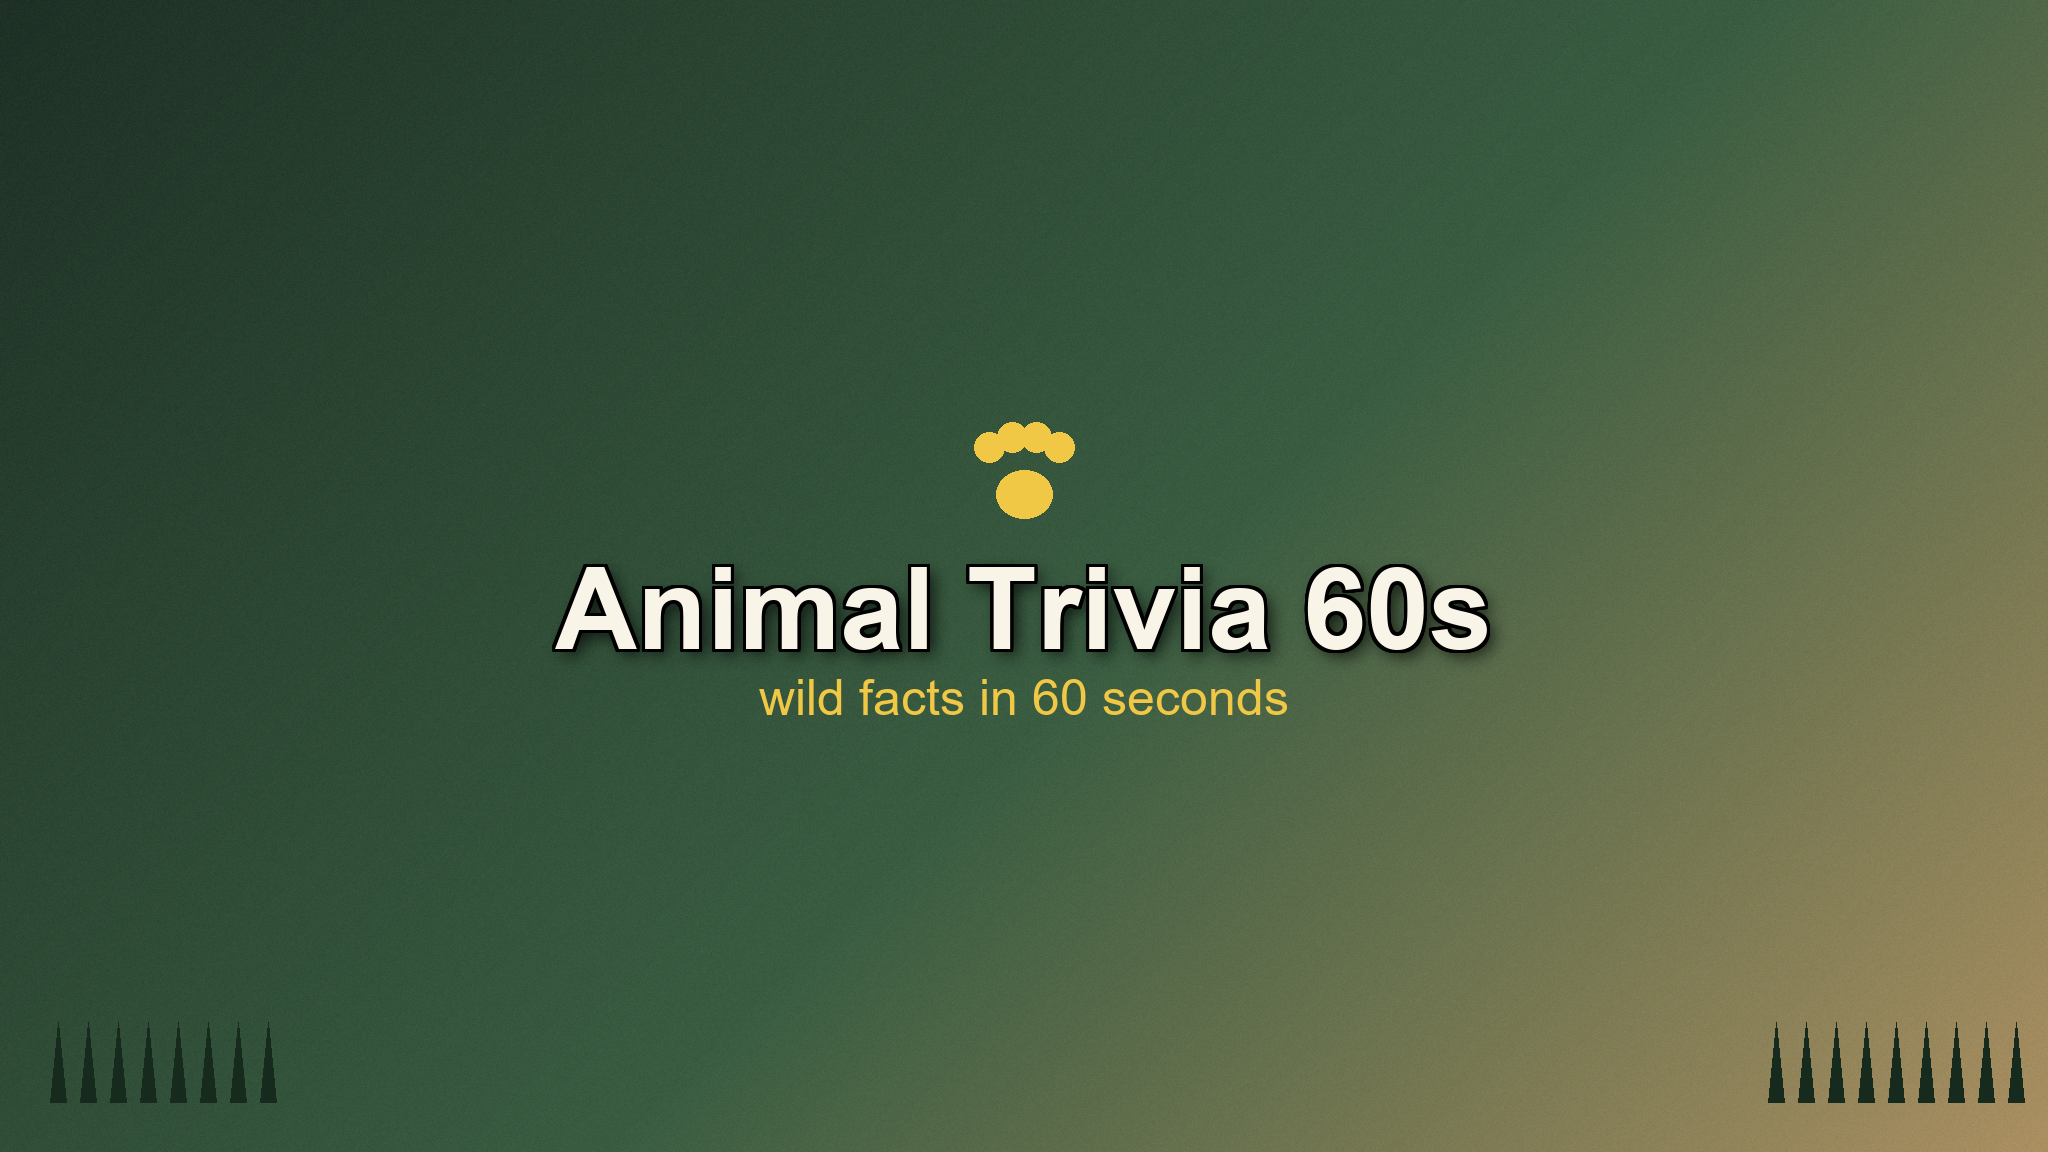
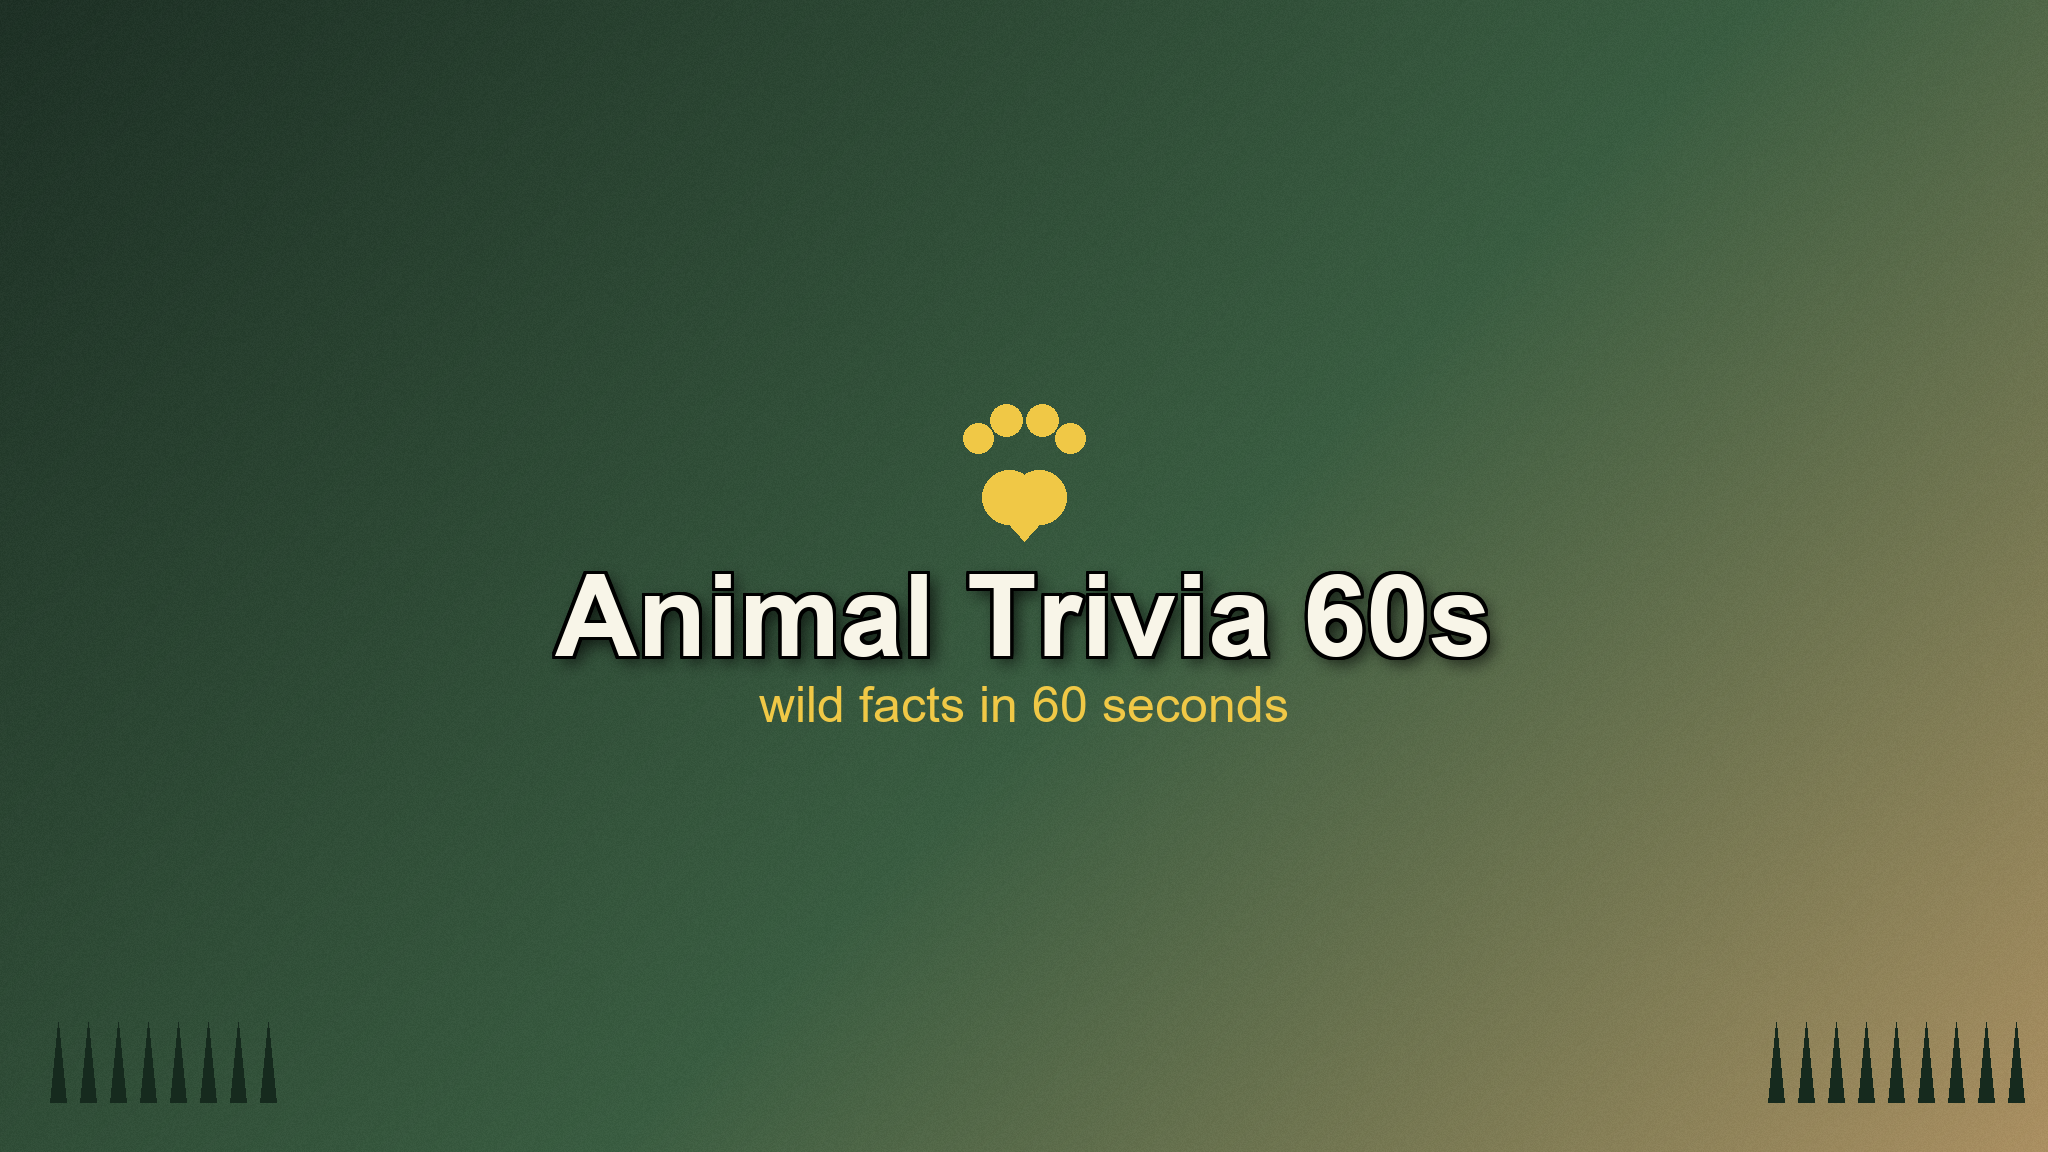
fix(branding): 발자국 모양 자연스러운 동물 발 비율로 수정
쿠마님 피드백 — 발자국 안 예쁨:
- 패드: 둥근 타원 → 하트형 (양 옆 둥글게 + 아래 뾰족)
- 발가락: 일자 배치 → 부채꼴 fan 배치 (가운데 두 개 더 위로, 양 끝은 살짝 아래)
- 발가락-패드 간격: 가까이 (실제 동물 발 비율)

Changed region(s): [[0.25, 0.3438, 0.75, 0.625]]

diff --git a/channel_assets/generate_assets.py b/channel_assets/generate_assets.py
@@ -93,28 +93,47 @@ def add_film_grain(img, opacity=18):
 
 
 def draw_pawprint(draw, cx, cy, scale=1.0, color=None, alpha=255):
-    """발자국 (paw print) 단순 형태 — 4개 발가락 + 큰 패드."""
+    """발자국 — 자연스러운 동물 발 (큰 둥근 하트형 패드 + 4개 발가락 fan 배치)."""
     if color is None:
         color = PALETTE["text_white"]
     fill = (*color[:3], alpha) if len(color) == 3 else color
 
-    pad_w = int(80 * scale)
-    pad_h = int(70 * scale)
-    # 큰 패드 (하단)
-    draw.ellipse([cx - pad_w // 2, cy - pad_h // 4,
-                  cx + pad_w // 2, cy + int(pad_h * 0.75)], fill=fill)
+    # 메인 패드 — 하트형 (양옆 둥글게 + 아래 뾰족)
+    pad_w = int(140 * scale)
+    pad_h = int(120 * scale)
+    pad_top = cy - int(pad_h * 0.15)
+    pad_bottom = cy + int(pad_h * 0.85)
+    # 좌측 둥근 부분
+    draw.ellipse([cx - pad_w // 2, pad_top,
+                  cx - pad_w // 2 + int(pad_w * 0.65), pad_top + int(pad_h * 0.75)],
+                 fill=fill)
+    # 우측 둥근 부분
+    draw.ellipse([cx + pad_w // 2 - int(pad_w * 0.65), pad_top,
+                  cx + pad_w // 2, pad_top + int(pad_h * 0.75)],
+                 fill=fill)
+    # 가운데 + 하단 (마름모/하트 끝)
+    draw.polygon([
+        (cx - int(pad_w * 0.42), pad_top + int(pad_h * 0.45)),
+        (cx + int(pad_w * 0.42), pad_top + int(pad_h * 0.45)),
+        (cx, pad_bottom),
+    ], fill=fill)
+    # 가운데 메우기 (둥근 사각)
+    draw.ellipse([cx - int(pad_w * 0.32), pad_top + int(pad_h * 0.20),
+                  cx + int(pad_w * 0.32), pad_top + int(pad_h * 0.70)],
+                 fill=fill)
 
-    # 4개 발가락 (상단)
-    toe_r = int(22 * scale)
-    toe_offsets = [
-        (int(-50 * scale), int(-50 * scale)),
-        (int(-18 * scale), int(-65 * scale)),
-        (int(18 * scale), int(-65 * scale)),
-        (int(50 * scale), int(-50 * scale)),
+    # 4개 발가락 — fan 곡선 배치, 패드 위에 가까이
+    toe_r_outer = int(26 * scale)
+    toe_r_inner = int(28 * scale)
+    # 위치: 부채꼴 (가운데 두 개가 더 위로, 양 끝은 약간 아래로)
+    toes = [
+        (cx + int(-78 * scale), cy + int(-70 * scale), toe_r_outer),
+        (cx + int(-30 * scale), cy + int(-100 * scale), toe_r_inner),
+        (cx + int(30 * scale), cy + int(-100 * scale), toe_r_inner),
+        (cx + int(78 * scale), cy + int(-70 * scale), toe_r_outer),
     ]
-    for dx, dy in toe_offsets:
-        draw.ellipse([cx + dx - toe_r, cy + dy - toe_r,
-                      cx + dx + toe_r, cy + dy + toe_r], fill=fill)
+    for tx, ty, tr in toes:
+        draw.ellipse([tx - tr, ty - tr, tx + tr, ty + tr], fill=fill)
 
 
 def make_banner():
@@ -140,10 +159,10 @@ def make_banner():
     tag_font_size = 50
     tag_font = find_font(tag_font_size, bold=False)
 
-    # 발자국 그룹 (좌측 + 우측)
-    paw_scale = 0.7
-    paw_h = int(140 * paw_scale)
-    gap_paw_title = 14
+    # 발자국 그룹 (좌측 + 우측) — 새 발자국이 좀 더 크니 scale 0.6
+    paw_scale = 0.6
+    paw_h = int(180 * paw_scale)  # 새 발자국 더 큼 (패드 + 발가락)
+    gap_paw_title = 18
     gap_title_tag = 10
 
     group_h = paw_h + gap_paw_title + title_font_size + gap_title_tag + tag_font_size
@@ -200,8 +219,8 @@ def make_profile():
     draw.ellipse([margin, margin, S - margin, S - margin],
                  outline=PALETTE["accent"], width=10)
 
-    # 큰 발자국 (가운데 위쪽)
-    draw_pawprint(draw, cx=S // 2, cy=int(S * 0.40), scale=3.6,
+    # 큰 발자국 (가운데 위쪽) — 새 비율 적용
+    draw_pawprint(draw, cx=S // 2, cy=int(S * 0.43), scale=2.6,
                   color=PALETTE["text_white"], alpha=255)
 
     # 채널명 (원 안 하단, 흰 텍스트 + 검정 테두리)
@@ -250,15 +269,15 @@ def make_watermark():
                             outline=(*PALETTE["accent"], 230), width=2)
 
     # 발자국 + 라벨 그룹 정 가운데 정렬
-    paw_h = 56
-    gap = 8
+    paw_h = 64  # 새 발자국 비율
+    gap = 10
     label_h = 16
     group_h = paw_h + gap + label_h
     group_top = (S - group_h) // 2
 
-    # 발자국 (위)
-    paw_cy = group_top + paw_h // 2
-    draw_pawprint(odraw, cx=S // 2, cy=paw_cy, scale=0.32,
+    # 발자국 (위) — 새 비율 적용
+    paw_cy = group_top + paw_h // 2 + 5
+    draw_pawprint(odraw, cx=S // 2, cy=paw_cy, scale=0.28,
                   color=PALETTE["text_white"], alpha=240)
 
     # 라벨 — 흰 글씨 + 검정 테두리
